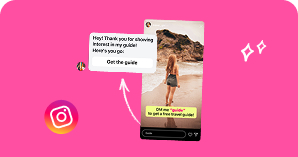
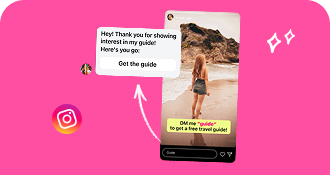
fix: Fix img bug templates

diff --git a/styles.css b/styles.css
@@ -1516,15 +1516,22 @@ button:hover {
 .page__holder__templates .pop__card {
   display: flex;
   flex-direction: column;
-  border: 1px solid var(--main-black);
+  background: white;
   border-radius: 24px;
   width: 330px;
   height: 253px;
   overflow: hidden;
+  border: none;
+  box-shadow: 0 8px 16px 0 rgba(25, 29, 58, 0.04);
+}
+
+.page__holder__templates .pop__card:hover {
+  border: 1px solid var(--main-black);
 }
 
 .page__holder__templates .pop__content {
   overflow: hidden;
+  margin-top: -1px;
 }
 
 .page__holder__templates .pop__content img {
@@ -4385,7 +4392,8 @@ tbody .btn-fix span {
   }
 
   .options__step__block {
-    flex-direction: column;
+    flex-direction: row;
+    overflow-x: scroll;
     align-items: start;
   }
 
@@ -4408,24 +4416,8 @@ tbody .btn-fix span {
     height: 40px;
   }
 
-  .icon__ar {
-    bottom: 18.4%;
-  }
-
-  .icon__letter {
-    top: 37.5%;
-  }
-
-  .icon__mess {
-    top: 15.6%;
-  }
-
   .line-icon-top {
     top: 0;
-  }
-
-  .steps:nth-child(2) .point__holder {
-    padding: 10px;
   }
 
   .page__holder__create .pop__card__holder {
@@ -4433,6 +4425,10 @@ tbody .btn-fix span {
     align-items: start;
     flex-wrap: nowrap;
     width: 100%;
+  }
+
+  .steps .step-block:nth-child(2) .point__holder {
+    height: auto;
   }
 
   .page__holder__create .popup-content .pop__card {
